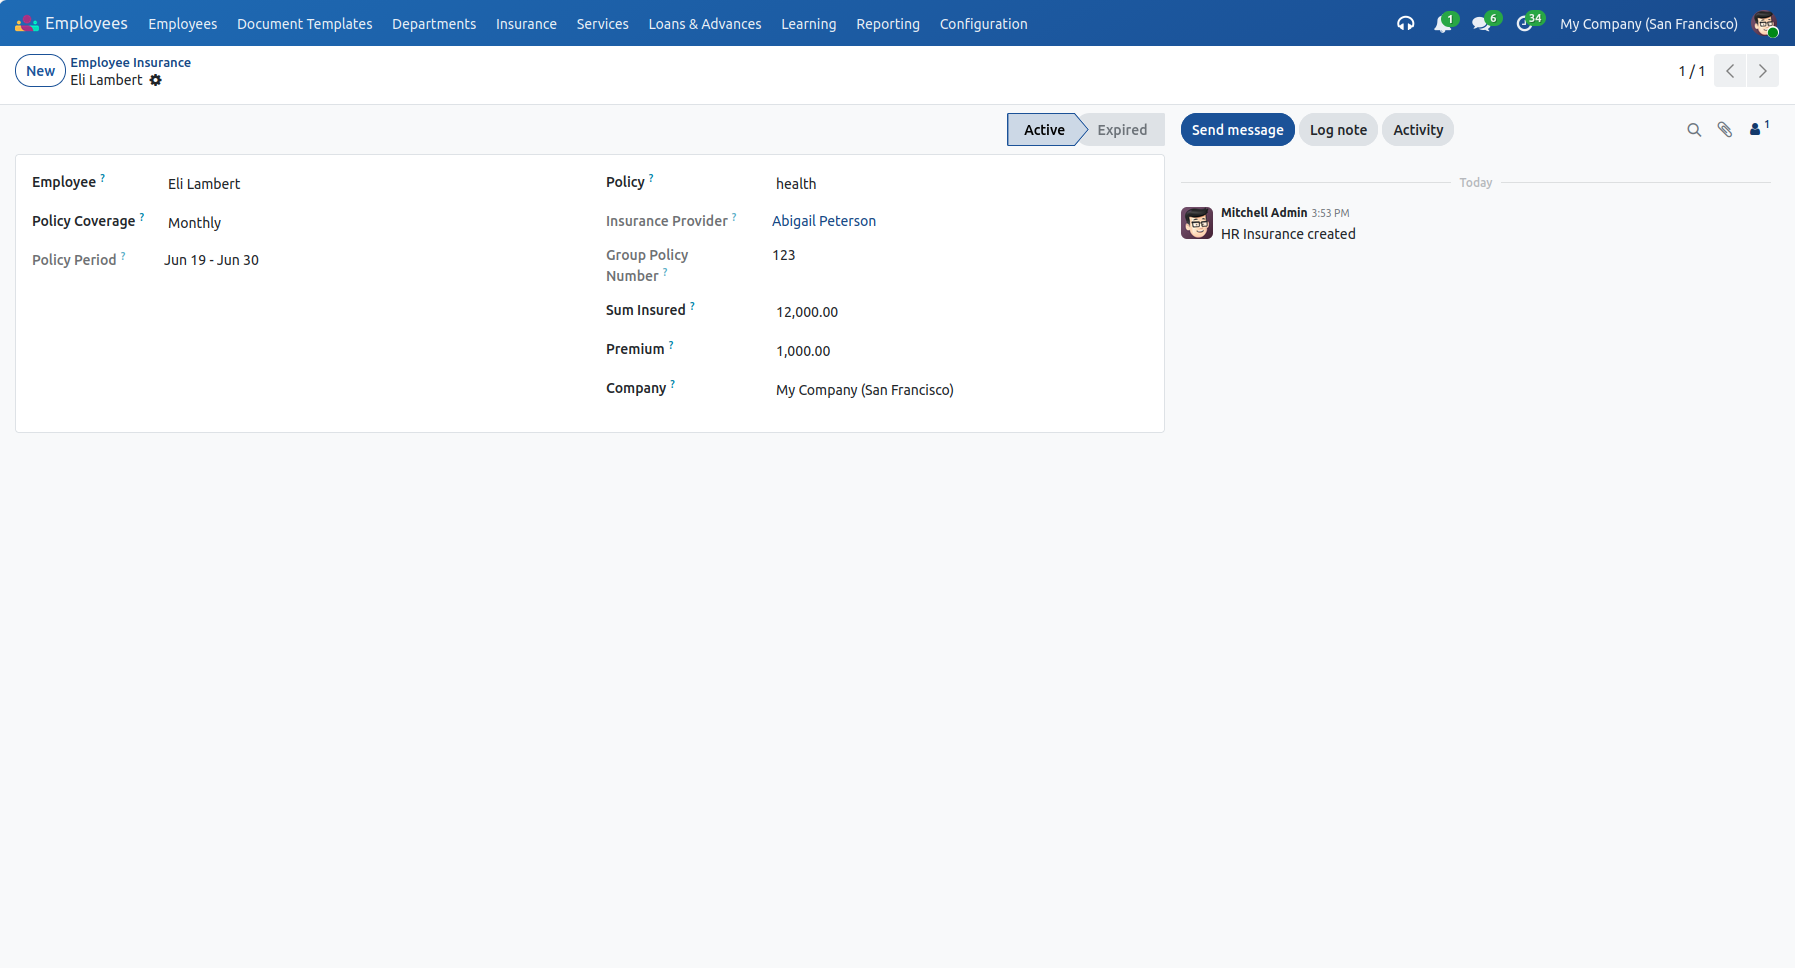
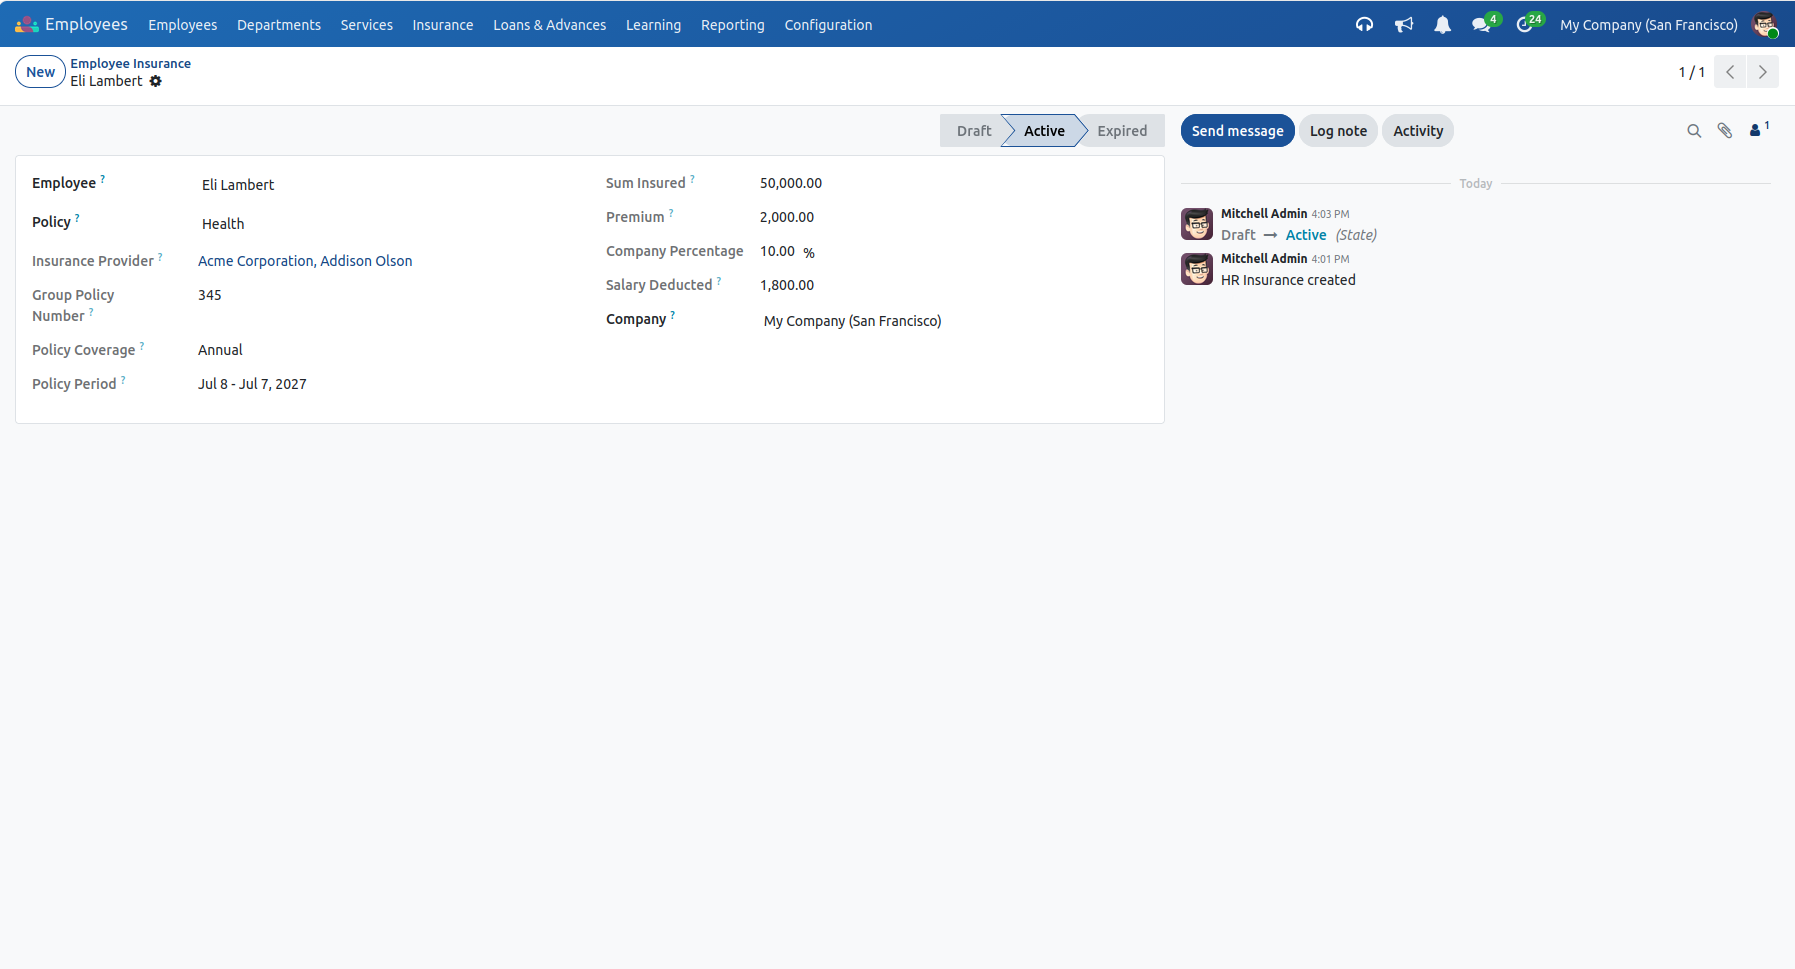
[update] policy coverage

diff --git a/static/description/index.html b/static/description/index.html
@@ -659,6 +659,34 @@
                             <div class="row pt-5 m-0">
                                 <div class="col-md-3">
                                     <h4 style="font-size:16px; font-weight:600; color:#514F4F; margin:0; line-height:26px;">
+                                        Latest Release 19.0.2.0.0
+                                    </h4>
+                                    <span style="font-size:14px; color:#7A7979; display:block; margin-bottom:20px;">
+                                      08 July, 2026
+                                    </span>
+                                </div>
+                                <div class="col-md-8">
+                                    <div style="padding:0 0 40px">
+                                        <div style="margin:0 0 10px">
+                                            <div
+                                                    style="display:inline-block; padding:0px 8px; color:#514F4F; background-color:#b5d9ff; border-radius:20px">
+                                                UPDT
+                                            </div>
+                                        </div>
+                                        <div class="d-flex m-0"
+                                             style="color:#7A7979;">
+                                            <ul class="pl-3 mb-0">
+                                                <li>Updated the deduction calculation and workflow for Employee Insurance.</li>
+                                            </ul>
+                                        </div>
+                                    </div>
+                                    <div style="padding:0 0 40px; border-bottom:1px solid #E3E3E3">
+                                    </div>
+                                </div>
+                            </div>
+                            <div class="row pt-5 m-0">
+                                <div class="col-md-3">
+                                    <h4 style="font-size:16px; font-weight:600; color:#514F4F; margin:0; line-height:26px;">
                                         Release 19.0.1.0.0
                                     </h4>
                                     <span style="font-size:14px; color:#7A7979; display:block; margin-bottom:20px;">
@@ -670,7 +698,7 @@
                                         <div style="margin:0 0 10px">
                                             <div
                                                     style="display:inline-block; padding:0px 8px; color:#514F4F; background-color:#b5d9ff; border-radius:20px">
-                                                Add
+                                                ADD
                                             </div>
                                         </div>
                                         <div class="d-flex m-0"

diff --git a/models/hr_insurance.py b/models/hr_insurance.py
@@ -40,19 +40,52 @@ class HrInsurance(models.Model):
     sum_insured = fields.Float(string="Sum Insured", required=True,
                                help="Insured sum", tracking=True)
     policy_coverage = fields.Selection([('monthly', 'Monthly'),
-                                        ('yearly', 'Yearly')],
-                                       required=True, default='monthly',
+                                        ('six_months', 'Semi Annual'),
+                                        ('yearly', 'Annual')],
+                                       required=True,
                                        string='Policy Coverage',
                                        help="Duration of the policy", tracking=True)
+    is_deducted = fields.Boolean("Lump-Sum Deducted", default=False, readonly=True, tracking=True)
     date_from = fields.Date(string='Date From',
-                            default=fields.Date.today(), readonly=True,
                             help="Start date", tracking=True)
-    date_to = fields.Date(string='Date To', help="End date", tracking=True)
-    state = fields.Selection([('active', 'Active'),
+    date_to = fields.Date(string='Date To', help="End date", tracking=True,
+                          compute='_compute_date_to', store=True, readonly=True)
+    company_percentage = fields.Float(string='Company Percentage', readonly=True)
+    deducted_amount = fields.Float(string="Salary Deducted",
+                                   compute="_compute_deducted_amount",
+                                   help="Lump-sum amount that is deducted from the salary")
+
+    @api.depends('amount', 'company_percentage')
+    def _compute_deducted_amount(self):
+        """Compute the net lump-sum deduction amount from the premium and company percentage."""
+        for ins in self:
+            if ins.amount:
+                # The 'amount' field represents the premium for the selected term.
+                # As this is a lump-sum deduction, we deduct the exact amount minus company percentage.
+                net_term_amount = ins.amount - ((ins.amount * ins.company_percentage) / 100)
+                ins.deducted_amount = net_term_amount
+            else:
+                ins.deducted_amount = 0.0
+
+    @api.depends('policy_coverage', 'date_from')
+    def _compute_date_to(self):
+        """Compute the end date of the policy based on the start date and coverage duration."""
+        for rec in self:
+            if rec.date_from and rec.policy_coverage:
+                if rec.policy_coverage == 'monthly':
+                    rec.date_to = rec.date_from + relativedelta(months=1, days=-1)
+                elif rec.policy_coverage == 'six_months':
+                    rec.date_to = rec.date_from + relativedelta(months=6, days=-1)
+                elif rec.policy_coverage == 'yearly':
+                    rec.date_to = rec.date_from + relativedelta(years=1, days=-1)
+                else:
+                    rec.date_to = False
+            else:
+                rec.date_to = False
+    state = fields.Selection([('draft', 'Draft'),
+                              ('active', 'Active'),
                               ('expired', 'Expired'), ],
-                             default='active', string="State",
-                             compute='_compute_status',
-                                 store=True,
+                             default='draft', string="State",
                              help="State for the insurance", tracking=True)
     company_id = fields.Many2one('res.company', string='Company',
                                  required=True, help="Company",
@@ -63,24 +96,43 @@ class HrInsurance(models.Model):
         for rec in self:
             if rec.state == 'expired':
                 rec.date_from = fields.Date.today()
-                # _compute_status will automatically recalculate date_to and set state='active'
+                rec.is_deducted = False
+                rec.state = 'active'
+                rec._compute_status()
 
-    @api.depends('date_from','date_to', 'policy_coverage', 'sum_insured', 'amount')
+    def action_confirm(self):
+        """Action to confirm the policy from draft to active."""
+        for rec in self:
+            if rec.state == 'draft':
+                rec.state = 'active'
+                rec._compute_status()
+
     def _compute_status(self):
         """This function is get and set state"""
         current_date = fields.Date.today()
         for rec in self:
-            if rec.policy_coverage == 'monthly':
-                rec.date_to = fields.Date.end_of(rec.date_from, 'month')
-            if rec.policy_coverage == 'yearly':
-                rec.date_to = fields.Date.end_of(rec.date_from, 'year')
-            if rec.date_from <= current_date:
+            if rec.date_from and rec.date_from <= current_date:
                 if rec.date_to and rec.date_to >= current_date:
                     rec.state = 'active'
                 else:
                     rec.state = 'expired'
             else:
                 rec.state = 'active'
+
+    @api.onchange('policy_id')
+    def _onchange_policy_id(self):
+        """Auto-populate insurance fields when a policy master is selected."""
+        if self.policy_id:
+            if self.policy_id.policy_coverage:
+                self.policy_coverage = self.policy_id.policy_coverage
+            if self.policy_id.amount:
+                self.amount = self.policy_id.amount
+            if self.policy_id.sum_insured:
+                self.sum_insured = self.policy_id.sum_insured
+            if self.policy_id.company_percentage:
+                self.company_percentage = self.policy_id.company_percentage
+            if not self.date_from:
+                self.date_from = fields.Date.today()
                 
     @api.model
     def _cron_update_insurance_status(self):

diff --git a/models/hr_payslip.py b/models/hr_payslip.py
@@ -19,7 +19,7 @@
 #    If not, see <http://www.gnu.org/licenses/>.
 #
 #############################################################################
-from odoo import api,models
+from odoo import api, models
 
 
 class HrPayslip(models.Model):
@@ -31,11 +31,36 @@ class HrPayslip(models.Model):
         """used get inputs , to add datas"""
         res = super().get_inputs(contract_ids, date_from, date_to)
         contract_obj = self.env['hr.version']
-        for record in contract_ids:
-            if contract_ids[0]:
-                emp_id = contract_obj.browse(record[0].id).employee_id
-                for result in res:
-                    if emp_id.deduced_amount_per_month != 0:
-                        if result.get('code') == 'INSUR':
-                            result['amount'] = emp_id.deduced_amount_per_month
+        for contract in contract_ids:
+            emp_id = contract_obj.browse(contract.id).employee_id if hasattr(contract, 'id') else contract_obj.browse(
+                contract).employee_id
+
+            eligible_insurances = emp_id.insurance_ids.filtered(
+                lambda i: i.state == 'active' and not i.is_deducted and i.date_from <= date_to
+            )
+            total_deduction = sum(ins.deducted_amount for ins in eligible_insurances)
+
+            if total_deduction != 0:
+                insur_input = next((r for r in res if r.get('code') == 'INSUR'), None)
+                if insur_input:
+                    insur_input['amount'] = total_deduction
+                else:
+                    res.append({
+                        'name': 'Insurance Amount',
+                        'code': 'INSUR',
+                        'amount': total_deduction,
+                        'contract_id': contract.id if hasattr(contract, 'id') else contract,
+                    })
+        return res
+
+    def action_payslip_done(self):
+        """Override to mark the insurance as deducted once the payslip is done"""
+        res = super(HrPayslip, self).action_payslip_done()
+        for slip in self:
+            if any(line.code == 'INSUR' for line in slip.line_ids):
+                eligible_insurances = slip.employee_id.insurance_ids.filtered(
+                    lambda i: i.state == 'active' and not i.is_deducted and i.date_from <= slip.date_to
+                )
+                for ins in eligible_insurances:
+                    ins.is_deducted = True
         return res

diff --git a/models/hr_employee.py b/models/hr_employee.py
@@ -26,33 +26,7 @@ class HrEmployee(models.Model):
     """Inherited the model to add some fields"""
     _inherit = 'hr.employee'
 
-    insurance_percentage = fields.Float(string="Company Percentage",
-                                        help="Company insurance percentage")
-    deduced_amount_per_month = fields.Float(string="Salary deduced per month",
-                                            compute="_compute_deducted_amount",
-                                            help="Amount that is deduced from "
-                                                 "the salary per month")
-    deduced_amount_per_year = fields.Float(string="Salary deduced per year",
-                                           compute="_compute_deducted_amount",
-                                           help="Amount that is deduced from "
-                                                "the salary per year")
     insurance_ids = fields.One2many('hr.insurance',
                                     'employee_id',
                                     string="Insurance", help="Insurance",
                                     domain=[('state', '=', 'active')])
-
-    @api.depends('insurance_ids', 'insurance_ids.amount', 'insurance_ids.state', 'insurance_percentage', 'insurance_ids.policy_coverage', 'insurance_ids.date_from', 'insurance_ids.date_to')
-    def _compute_deducted_amount(self):
-        """Used to get deduced amount"""
-        current_date = fields.Date.today()
-        for emp in self:
-            ins_amount = 0
-            for ins in emp.insurance_ids:
-                if ins.date_from <= current_date:
-                    if ins.date_to >= current_date:
-                        if ins.policy_coverage == 'monthly':
-                            ins_amount = ins_amount + (ins.amount*12)
-                        else:
-                            ins_amount = ins_amount + ins.amount
-            emp.deduced_amount_per_year = ins_amount-((ins_amount*emp.insurance_percentage)/100)
-            emp.deduced_amount_per_month = emp.deduced_amount_per_year/12

diff --git a/models/insurance_policy.py b/models/insurance_policy.py
@@ -25,13 +25,24 @@ from odoo import fields, models
 class InsurancePolicy(models.Model):
     """Used this model for insurance policy"""
     _name = 'insurance.policy'
+    _inherit = ['mail.thread', 'mail.activity.mixin']
     _description = "Policies of Insurance"
 
     name = fields.Char(string='Name', required=True)
-    insurer_id = fields.Many2one('res.partner', string='Insurance Provider', help="Insurance company providing the policy")
+    insurer_id = fields.Many2one('res.partner', string='Insurance Provider',
+                                 help="Insurance company providing the policy")
     group_policy_number = fields.Char(string='Group Policy Number', help="Reference number for the group policy")
     note_field = fields.Html(string='Comment',
                              help="Notes for the insurance policy if any")
     company_id = fields.Many2one('res.company', string='Company',
                                  required=True, help="Company",
                                  default=lambda self: self.env.user.company_id)
+    policy_coverage = fields.Selection([('monthly', 'Monthly'),
+                                        ('six_months', 'Semi Annual'),
+                                        ('yearly', 'Annual')],
+                                       default='monthly',
+                                       string='Policy Coverage',
+                                       help="Default duration of the policy")
+    amount = fields.Float(string='Premium', help="Default Policy amount")
+    sum_insured = fields.Float(string="Sum Insured", help="Default Insured sum")
+    company_percentage = fields.Float(string='Company Percentage', help="Company contribution percentage")

diff --git a/__manifest__.py b/__manifest__.py
@@ -21,7 +21,7 @@
 #############################################################################
 {
     'name': 'Open HRMS Employee Insurance',
-    'version': '19.0.1.0.0',
+    'version': '19.0.2.0.0',
     'category': 'Human Resources',
     'summary': """Employee Insurance Management for Open HRMS.""",
     'description': """Manages insurance amounts for employees to be deducted 

diff --git a/doc/RELEASE_NOTES.md b/doc/RELEASE_NOTES.md
@@ -1,5 +1,11 @@
 ## Module <hr_insurance>
+
 #### 06.01.2026
 #### Version 19.0.1.0.0
 ##### ADD
 - Initial commit for Open HRMS Employee Insurance
+
+#### 08.07.2026
+#### Version 19.0.2.0.0
+##### UPDT
+- Updated the deduction calculation and workflow for Employee Insurance
